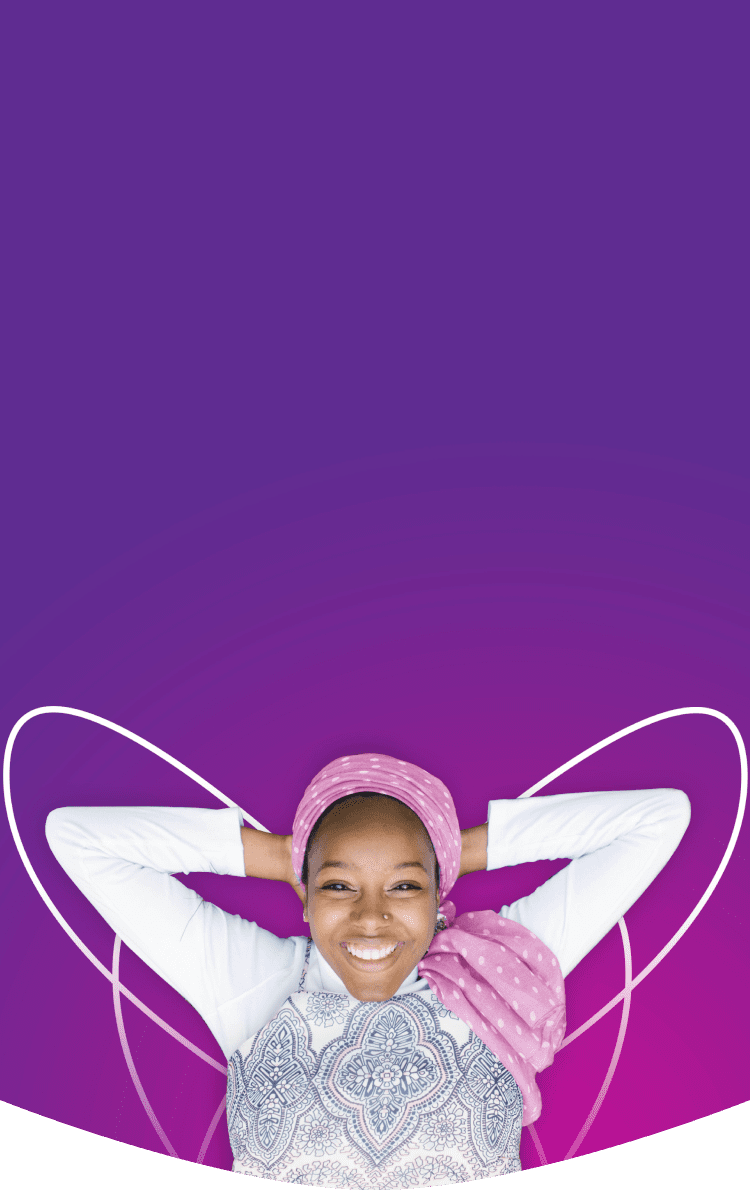
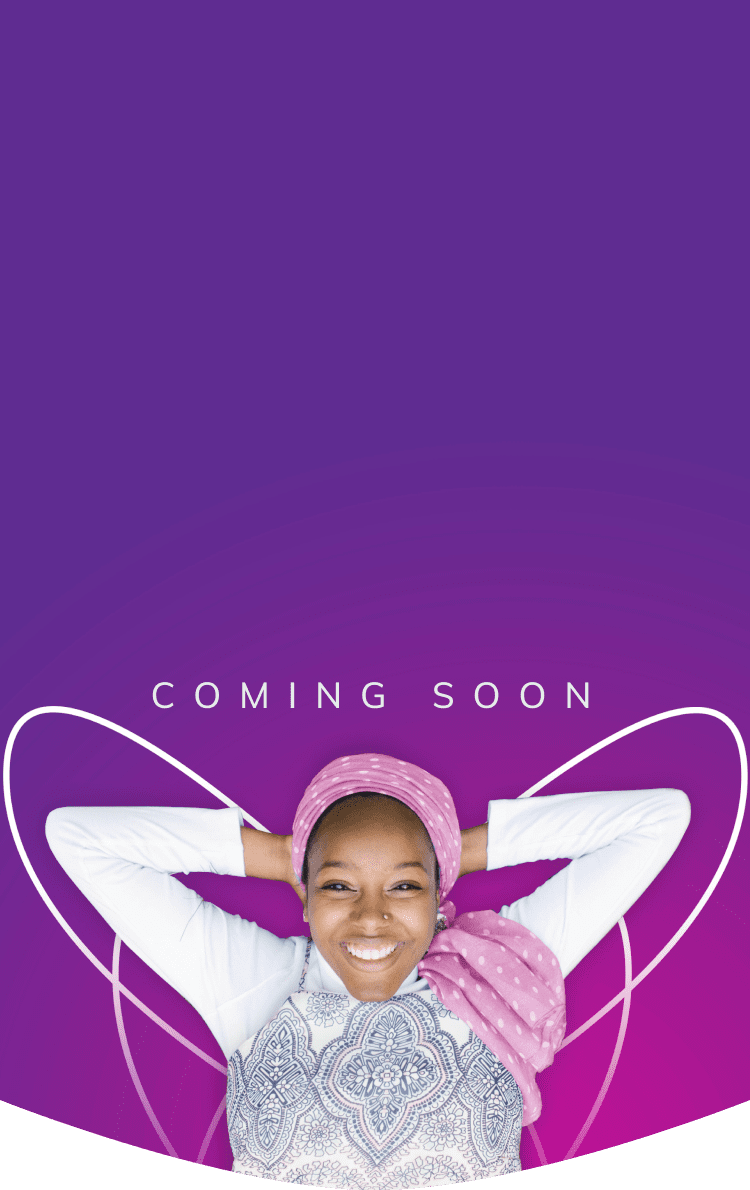
Updates to homepage and isi functionality and style

diff --git a/src/components/HomeContent/HomeContent.jsx b/src/components/HomeContent/HomeContent.jsx
@@ -23,16 +23,11 @@ class HomeContent extends React.Component {
         <section className='home-container'>
           <Container>
             <Row>
-              <Col lg={{span: 5, offset: 1}}>
-                <h2 className='home-title'>
-                  COMING SOON
-                </h2>
-              </Col>
-              <Col lg={{span: 6, offset: 0}}>
+              <Col lg={{span: 6, offset: 6}}>
                 <h1 className='white'>
                   Myfembree–a new treatment for symptoms of uterine fibroids
                 </h1>
-                <h3 className='home-sub-title white'>
+                <h3 className='home-sub-title medium-green'>
                   Talk to your doctor today about Myfembree
                 </h3>
                 <p className='white'>

diff --git a/src/components/isi/Isi.jsx b/src/components/isi/Isi.jsx
@@ -125,11 +125,12 @@ class ISI extends React.Component {
 
   render() {
     const { width, yDirection, isIsiExpanded, nonExpandedISI } = this.state
+    console.log('HERE', yDirection)
     return (
       <section className='isi' id='isi'>
         <div className={isIsiExpanded ? 'isi-overlay' : ''}>
           <div
-            className={isIsiExpanded ? 'isi-tray expanded' : 'isi-tray'}
+            className={isIsiExpanded ? 'isi-tray expanded' : yDirection > 0 ? 'isi-tray tray-collapsed' : 'isi-tray'}
             onClick={() => typeof window !== 'undefined' && window.innerWidth > 0 ? this.toggleIsiTray() : null}
           >
             <Container>

diff --git a/src/components/isi/Isi.scss b/src/components/isi/Isi.scss
@@ -47,6 +47,9 @@
   bottom: 0;
   z-index: 10;
   transition: 0.5s;
+  &.tray-collapsed {
+    top: calc(100% - 50px);
+  }
   &.expanded {
     top: 150px;
   }
@@ -86,6 +89,17 @@
   height: 580px;
   min-height: fit-content;
   padding-bottom: 24px;
+  &::-webkit-scrollbar {
+    width: 10px;
+  }
+  &::-webkit-scrollbar-track {
+    box-shadow: inset 0 0 5px grey;
+    border-radius: 5px;
+  }
+  &::-webkit-scrollbar-thumb {
+    background: $purple;
+    border-radius: 5px;
+  }
 }
 
 #page-isi {

diff --git a/src/components/CallNowCard/CallNowCard.jsx b/src/components/CallNowCard/CallNowCard.jsx
@@ -19,7 +19,7 @@ const CallNowCard = (props) => {
             <Col lg={{span: 3, offset: 0}}>
               <div class='call-now-inner-container'>
                 <div className='cta-btn-container call-now-btn-container'>
-                  <a>
+                  <a href="tel:833-693-3627">
                     <button className='cta-btn pink-btn'>
                       Call Now
                     </button>

diff --git a/src/components/HomeContent/HomeContent.scss b/src/components/HomeContent/HomeContent.scss
@@ -33,6 +33,5 @@
     background-position: center;
     background-repeat: no-repeat;
     background-size: cover;
-    padding: 88px 0;
   }
 }
